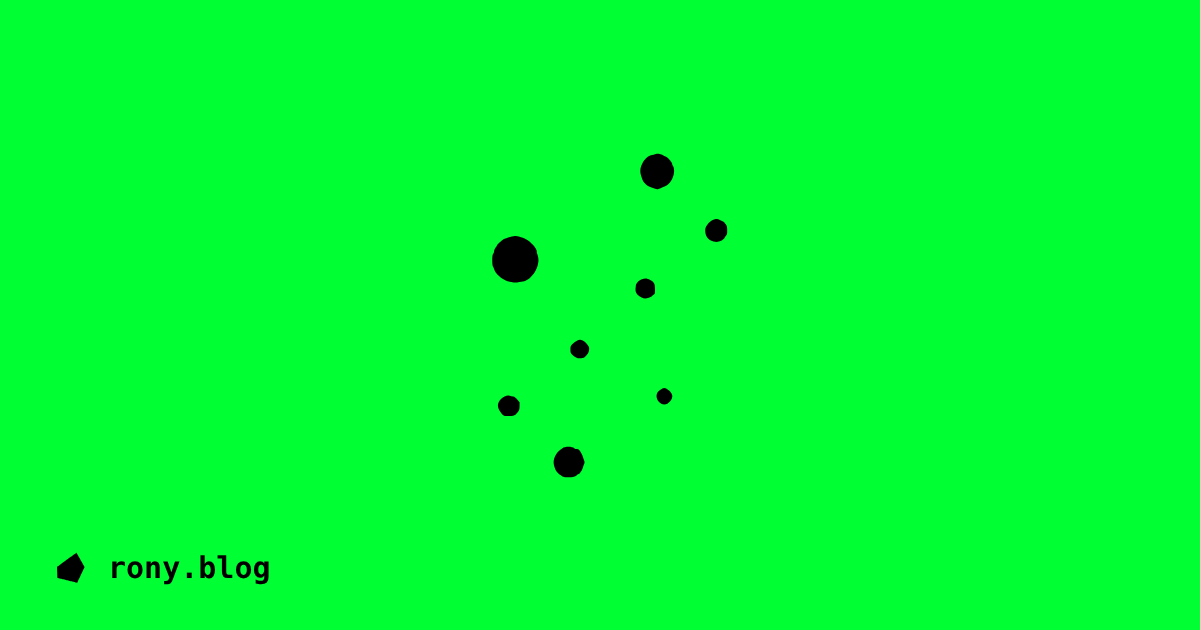
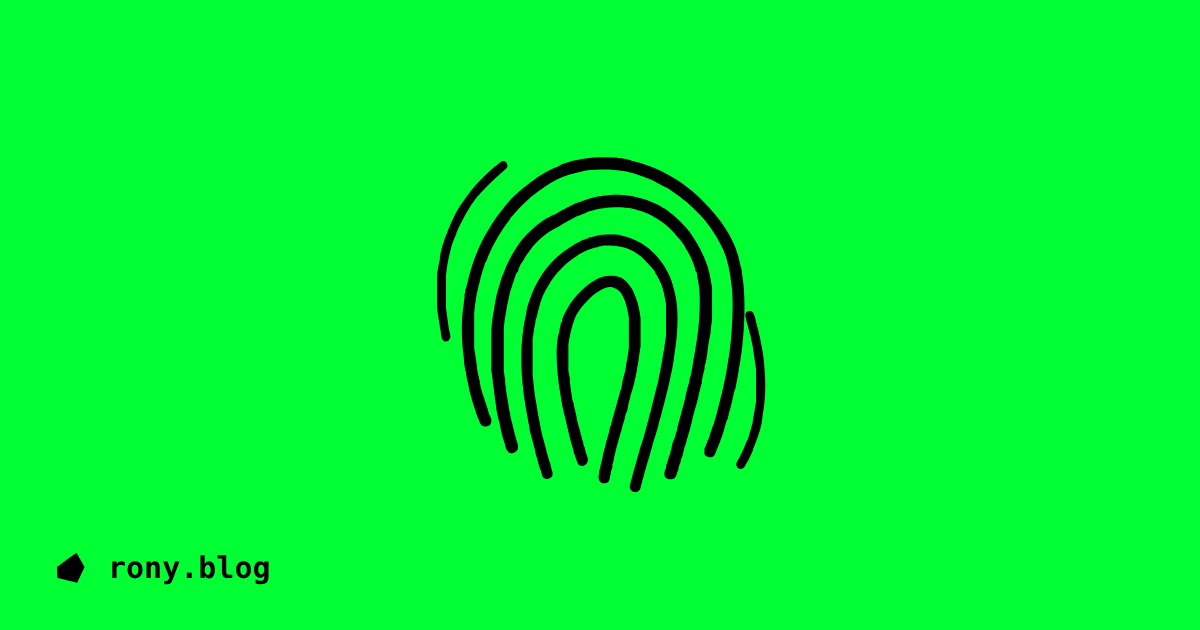
Give the poem a fingerprint
The fingerprint drawing, traced from the artwork, replaces the dots on the
poem in the feed, the social cuts and its share card. It joins the icon
library.

Claude-Session: https://claude.ai/code/session_01DvgCqh7jZkxuLgej98F7v5

Changed region(s): [[0.3392, 0.2413, 0.6475, 0.7841]]

diff --git a/index.html b/index.html
@@ -376,6 +376,7 @@ h2.year { font-size: 13px; font-weight: 700; letter-spacing: .3em; color: var(--
   <symbol id="i-quad" viewBox="0 0 64 64"><path fill="currentColor" fill-rule="evenodd" d="M43.9 50.0 C43.9 49.9 44.0 49.3 44.1 48.6 C44.1 47.9 44.2 47.0 44.3 46.7 C44.3 46.4 44.4 45.7 44.4 45.1 C44.4 44.5 44.5 43.9 44.6 43.8 C44.6 43.6 44.7 43.1 44.7 42.6 C44.7 42.2 44.9 41.0 45.0 40.0 C45.1 39.1 45.2 37.7 45.3 36.9 C45.4 36.1 45.5 35.3 45.5 35.0 C45.6 34.7 45.7 34.1 45.7 33.6 C45.7 33.1 45.8 32.5 45.9 32.2 C45.9 32.0 45.9 31.6 45.9 31.3 C45.9 31.0 46.0 30.5 46.0 30.2 C46.1 29.9 46.2 29.1 46.3 28.3 C46.3 27.6 46.4 26.8 46.5 26.5 C46.5 26.3 46.5 25.8 46.5 25.6 C46.5 25.3 46.6 24.6 46.7 23.9 C46.8 23.3 46.9 22.3 46.9 21.8 C46.9 21.2 47.0 20.6 47.0 20.5 C47.1 20.4 47.1 19.8 47.2 19.3 C47.2 18.8 47.3 18.1 47.3 17.7 C47.4 16.7 47.5 15.3 47.5 15.1 C47.4 15.0 47.3 14.9 47.1 15.0 C47.0 15.0 46.7 15.1 46.3 15.1 C46.0 15.1 45.3 15.2 44.8 15.3 C44.3 15.4 43.4 15.5 42.8 15.6 C42.2 15.7 41.4 15.8 41.0 15.9 C40.6 16.0 40.1 16.0 39.8 16.1 C39.5 16.1 38.9 16.2 38.6 16.3 C37.4 16.5 36.4 16.6 35.8 16.7 C35.5 16.7 35.1 16.8 34.9 16.8 C34.7 16.9 34.3 16.9 33.9 17.0 C33.6 17.0 33.0 17.1 32.6 17.2 C31.8 17.3 31.2 17.4 29.9 17.6 C29.3 17.7 28.7 17.8 28.4 17.8 C25.8 18.3 25.4 18.3 24.5 18.5 C24.2 18.5 23.7 18.6 23.3 18.7 C22.9 18.7 22.2 18.8 21.7 18.9 C21.3 18.9 20.7 19.0 20.4 19.1 C20.2 19.1 19.7 19.2 19.4 19.2 C19.0 19.3 18.8 19.3 18.7 19.4 C18.6 19.5 18.6 19.9 18.6 20.5 C18.6 21.0 18.6 21.6 18.5 21.9 C18.5 22.3 18.4 23.1 18.1 26.6 C18.0 28.8 17.9 29.6 17.8 30.5 C17.7 31.9 17.5 34.8 17.5 36.2 C17.4 36.9 17.4 37.7 17.3 38.0 C17.3 38.3 17.2 39.1 17.2 39.8 C17.2 40.5 17.1 41.7 17.0 42.4 C17.0 43.2 16.9 44.3 16.8 44.8 C16.8 45.3 16.8 45.9 16.7 46.2 C16.7 46.8 16.8 46.9 17.7 47.0 C18.1 47.0 18.7 47.1 18.9 47.1 C19.2 47.1 19.9 47.2 20.4 47.3 C20.9 47.3 21.6 47.4 22.0 47.5 C22.8 47.6 23.5 47.7 25.3 47.9 C25.9 48.0 26.7 48.1 27.1 48.1 C27.5 48.2 28.3 48.3 28.9 48.4 C31.7 48.7 32.5 48.8 33.0 48.9 C33.4 48.9 33.8 49.0 34.0 49.0 C34.1 49.0 34.7 49.1 35.2 49.2 C36.8 49.4 38.0 49.5 38.9 49.6 C39.3 49.7 40.0 49.8 40.3 49.8 C40.6 49.8 41.1 49.9 41.4 50.0 C41.7 50.0 42.2 50.1 42.6 50.1 C42.9 50.1 43.3 50.2 43.4 50.2 C43.6 50.3 43.8 50.2 43.9 50.0 Z"/></symbol>
   <symbol id="i-coffin" viewBox="0 0 64 64"><path fill="currentColor" stroke="currentColor" stroke-width="0.9" stroke-linejoin="round" d="M29.6 6.5 L39.5 6.8 L48.5 21.3 L37.3 58.3 L22.6 56.5 L17.6 18.5 Z"/></symbol>
   <symbol id="i-wand" viewBox="0 0 64 64"><path fill="currentColor" stroke="currentColor" stroke-width="0.8" stroke-linejoin="round" d="M6.9 53.0 L10.6 48.7 L15.7 52.9 L11.1 57.5 Z M12.4 47.3 L46.2 14.4 L49.1 18.4 L17.2 51.5 Z M47.8 12.9 L53.5 8.0 L56.6 10.5 L50.6 16.3 Z"/></symbol>
+  <symbol id="i-fingerprint" viewBox="0 0 64 64"><path fill="currentColor" fill-rule="evenodd" d="M37.6 57.6 C37.8 57.5 37.9 57.3 38.0 56.7 C38.4 55.3 38.4 55.2 38.8 53.8 C39.0 53.1 39.2 52.6 39.2 52.5 C39.2 52.4 39.3 52.2 39.3 52.1 C39.3 52.0 39.4 51.9 39.4 51.8 C39.4 51.7 39.5 51.5 39.5 51.5 C39.5 51.4 39.7 50.6 40.0 49.7 C40.3 48.8 40.5 48.1 40.5 48.0 C40.6 47.5 40.7 47.2 40.9 46.6 C40.9 46.4 41.0 46.2 41.0 46.1 C41.2 45.4 41.6 43.8 41.8 43.0 C41.9 42.8 41.9 42.4 42.0 42.2 C42.1 41.8 42.2 41.2 42.3 40.8 C42.3 40.6 42.4 40.4 42.4 40.3 C42.6 39.6 42.7 38.6 42.9 37.2 C43.4 34.2 43.4 30.6 42.9 28.9 C42.9 28.8 42.9 28.6 42.8 28.5 C42.6 27.5 42.2 26.4 41.7 25.5 C40.3 22.9 38.0 21.1 35.4 20.5 C34.6 20.3 34.5 20.3 33.4 20.3 C32.3 20.3 31.8 20.4 31.0 20.6 C30.9 20.6 30.7 20.7 30.7 20.7 C30.6 20.7 30.5 20.7 30.4 20.7 C30.4 20.8 30.2 20.8 30.2 20.9 C30.1 20.9 29.9 20.9 29.8 21.0 C29.7 21.0 29.6 21.1 29.5 21.1 C28.6 21.5 27.4 22.3 26.4 23.0 C24.2 24.8 22.7 27.0 21.7 30.0 C21.4 30.9 21.4 30.9 21.3 31.6 C20.5 35.0 20.3 38.8 20.9 43.4 C20.9 43.8 21.0 43.9 21.1 44.8 C21.2 45.6 21.4 46.4 21.6 47.7 C21.7 48.0 21.8 48.7 21.8 48.9 C22.1 49.9 22.5 51.5 22.6 51.8 C22.6 51.9 22.6 52.0 22.6 52.1 C22.7 52.2 22.7 52.4 22.7 52.5 C22.8 52.6 22.9 53.0 23.0 53.4 C23.1 53.8 23.2 54.2 23.2 54.2 C23.3 54.3 23.3 54.5 23.4 54.6 C23.6 55.5 23.7 55.7 24.1 55.8 C24.4 55.9 24.6 55.8 24.9 55.6 C25.1 55.4 25.1 55.3 25.1 55.1 C25.1 54.9 25.1 54.7 25.0 54.6 C25.0 54.4 24.9 54.3 24.9 54.2 C24.9 54.1 24.8 53.9 24.8 53.7 C24.6 53.2 24.3 52.1 24.1 51.3 C23.9 50.6 23.8 50.2 23.6 49.5 C23.4 48.6 23.4 48.5 23.3 48.1 C23.3 47.9 23.2 47.6 23.2 47.5 C23.2 47.3 23.1 47.1 23.1 47.0 C23.1 46.9 23.0 46.6 23.0 46.5 C23.0 46.3 22.9 46.1 22.9 45.9 C22.9 45.7 22.8 45.4 22.8 45.2 C22.5 43.7 22.4 42.7 22.2 40.7 C22.2 39.8 22.2 36.4 22.2 35.6 C22.4 34.2 22.4 33.9 22.6 33.2 C22.6 32.9 22.6 32.8 22.8 32.3 C23.0 31.3 23.3 30.2 23.6 29.4 C23.8 29.0 24.1 28.3 24.4 27.9 C25.4 26.0 27.0 24.4 29.1 23.1 C29.9 22.6 30.9 22.2 31.7 22.1 C31.9 22.0 32.1 22.0 32.2 22.0 C32.3 21.9 32.7 21.9 33.1 21.9 C35.1 21.8 37.1 22.5 38.6 24.1 C39.1 24.6 39.9 25.5 40.0 25.7 C40.0 25.8 40.1 26.0 40.2 26.1 C40.4 26.5 40.6 26.8 40.9 27.5 C41.2 28.2 41.4 29.3 41.6 30.4 C41.6 31.1 41.6 34.3 41.6 35.1 C41.4 36.2 41.4 36.8 41.2 37.6 C41.1 38.3 40.9 39.5 40.8 39.9 C40.8 40.2 40.7 40.5 40.6 40.8 C40.6 41.0 40.5 41.3 40.5 41.6 C40.4 41.8 40.4 42.1 40.3 42.2 C40.2 42.7 39.5 45.5 39.4 45.9 C39.4 46.0 39.3 46.3 39.2 46.5 C39.2 46.7 39.1 46.9 39.1 47.0 C39.1 47.1 39.0 47.3 39.0 47.4 C38.9 47.6 38.9 47.8 38.8 48.1 C38.8 48.2 38.6 48.9 38.4 49.6 C38.0 51.0 37.9 51.1 37.8 51.5 C37.8 51.6 37.7 51.8 37.7 51.9 C37.7 51.9 37.6 52.1 37.6 52.2 C37.6 52.3 37.4 52.8 37.3 53.3 C37.1 53.9 37.0 54.4 36.9 54.6 C36.9 54.7 36.8 54.9 36.8 55.0 C36.8 55.1 36.7 55.4 36.6 55.8 C36.5 56.1 36.4 56.5 36.4 56.6 C36.2 57.1 36.4 57.5 36.8 57.7 C37.0 57.8 37.4 57.8 37.6 57.6 Z M33.0 56.4 C33.3 56.3 33.4 56.0 33.5 55.3 C33.6 55.1 33.6 54.8 33.6 54.7 C33.7 54.6 33.7 54.3 33.8 54.2 C33.8 54.0 33.8 53.8 33.8 53.7 C33.9 53.6 33.9 53.4 34.0 53.2 C34.0 52.8 34.6 50.5 34.8 49.9 C34.8 49.8 34.9 49.6 34.9 49.4 C35.0 49.3 35.0 49.0 35.1 48.9 C35.2 48.4 35.3 48.0 35.4 47.7 C35.4 47.6 35.5 47.5 35.5 47.4 C35.5 47.3 35.6 47.1 35.6 47.1 C35.6 47.0 35.7 46.7 35.7 46.5 C35.8 46.3 35.9 46.0 36.0 45.8 C36.0 45.5 36.1 45.3 36.1 45.2 C36.1 45.1 36.2 44.8 36.4 43.9 C36.6 43.2 37.1 41.6 37.1 41.3 C37.1 41.2 37.2 41.0 37.2 40.9 C37.2 40.7 37.4 40.1 37.4 39.7 C37.6 39.0 37.7 37.7 37.9 36.6 C37.9 35.8 37.9 33.1 37.9 32.5 C37.7 30.9 37.5 30.2 37.1 29.2 C36.8 28.3 36.4 27.8 35.9 27.2 C35.2 26.5 34.5 26.3 33.5 26.3 C32.8 26.3 32.3 26.4 31.5 26.8 C30.1 27.5 28.3 29.3 27.5 30.6 C27.1 31.3 26.8 31.9 26.6 32.3 C26.6 32.4 26.6 32.5 26.5 32.6 C26.5 32.6 26.5 32.7 26.5 32.9 C26.4 33.0 26.4 33.1 26.3 33.2 C26.3 33.4 26.1 34.1 26.1 34.4 C26.0 34.6 26.0 34.8 25.9 35.0 C25.5 37.1 25.7 40.6 26.3 43.9 C26.4 44.6 26.6 45.7 26.7 45.9 C26.7 46.2 26.8 46.5 26.9 46.8 C27.0 47.3 27.6 49.7 27.7 50.2 C27.7 50.3 27.8 50.4 27.8 50.5 C27.8 50.6 27.9 50.8 27.9 50.9 C27.9 51.0 28.0 51.1 28.0 51.2 C28.0 51.3 28.1 51.5 28.1 51.6 C28.1 51.6 28.2 51.9 28.2 52.1 C28.3 52.3 28.4 52.5 28.4 52.6 C28.5 52.8 28.6 53.2 28.7 53.4 C28.9 54.2 30.0 54.1 30.2 53.3 C30.3 53.1 30.3 53.0 29.9 51.9 C29.9 51.7 29.8 51.5 29.8 51.4 C29.8 51.3 29.7 51.1 29.6 50.9 C29.6 50.6 29.5 50.3 29.4 50.1 C29.3 49.7 29.3 49.5 29.2 49.3 C29.2 49.2 28.8 47.8 28.7 47.5 C28.7 47.3 28.5 46.5 28.5 46.3 C28.4 46.2 28.4 46.0 28.4 45.9 C28.3 45.5 28.2 45.3 28.2 44.9 C28.1 44.8 28.1 44.5 28.0 44.4 C27.9 43.7 27.6 42.1 27.6 41.1 C27.5 40.8 27.5 40.4 27.4 40.1 C27.4 39.5 27.4 36.9 27.4 36.3 C27.7 34.4 28.0 33.3 28.5 32.1 C29.0 31.3 29.3 30.8 30.0 30.1 C31.5 28.5 33.0 27.7 33.9 28.0 C35.1 28.3 35.8 29.7 36.2 32.4 C36.2 33.0 36.2 36.1 36.2 36.8 C36.0 38.1 36.0 38.4 35.8 39.2 C35.7 40.2 35.7 40.0 35.3 41.5 C35.2 42.2 35.2 42.2 35.1 42.7 C35.0 42.9 34.9 43.3 34.8 43.6 C34.6 44.3 34.5 44.7 34.4 45.1 C34.3 45.3 34.3 45.6 34.2 45.7 C34.2 45.8 34.2 45.9 34.1 46.0 C34.1 46.1 34.1 46.2 34.1 46.3 C34.0 46.4 33.9 46.8 33.8 47.2 C33.7 47.6 33.6 48.1 33.5 48.2 C33.4 48.5 33.4 48.6 33.3 49.1 C33.0 50.1 32.9 50.6 32.8 50.9 C32.8 51.0 32.7 51.3 32.6 51.7 C32.5 52.0 32.4 52.4 32.4 52.5 C32.4 52.7 32.3 52.9 32.3 53.0 C32.2 53.3 32.0 54.4 31.9 54.7 C31.9 54.9 31.9 55.2 31.8 55.3 C31.8 55.4 31.8 55.6 31.8 55.7 C31.8 55.9 32.0 56.3 32.2 56.4 C32.4 56.5 32.8 56.5 33.0 56.4 Z M42.7 55.8 C43.0 55.6 43.1 55.4 43.2 55.0 C43.2 54.9 43.3 54.7 43.4 54.5 C43.4 54.3 43.5 54.1 43.5 54.0 C43.5 53.9 43.6 53.7 43.7 53.5 C43.7 53.3 43.8 53.1 43.8 53.0 C43.8 52.9 43.9 52.7 44.0 52.5 C44.1 52.1 44.1 52.0 44.2 51.7 C44.2 51.6 44.3 51.1 44.5 50.7 C44.6 50.3 44.7 49.8 44.8 49.6 C44.8 49.5 44.9 49.3 44.9 49.2 C45.0 49.0 45.1 48.5 45.3 47.8 C45.4 47.2 45.9 45.4 46.0 45.1 C46.0 45.0 46.1 44.8 46.1 44.8 C46.2 44.4 46.6 42.5 46.8 41.9 C46.8 41.7 46.8 41.6 46.8 41.4 C46.9 41.3 46.9 41.1 46.9 41.0 C47.0 40.9 47.0 40.7 47.0 40.7 C47.0 40.6 47.1 40.2 47.2 39.9 C47.2 39.5 47.3 39.1 47.4 38.9 C47.4 38.8 47.4 38.5 47.5 38.4 C47.5 38.2 47.6 37.8 47.7 36.7 C47.8 36.2 47.9 35.5 48.1 34.5 C48.1 34.1 48.2 33.5 48.3 32.5 C48.3 31.6 48.3 28.7 48.3 28.0 C48.1 26.9 48.0 26.2 47.7 25.1 C47.4 24.1 46.8 22.8 46.2 21.7 C45.9 21.2 45.1 20.0 45.0 19.8 C44.9 19.8 44.8 19.7 44.7 19.5 C43.8 18.4 42.3 17.1 41.4 16.5 C41.3 16.5 41.1 16.4 40.9 16.2 C39.9 15.7 38.6 15.1 37.5 14.9 C36.8 14.7 36.5 14.6 35.8 14.6 C35.3 14.5 33.4 14.5 33.0 14.6 C32.8 14.6 32.5 14.6 32.3 14.7 C31.3 14.8 29.9 15.2 29.0 15.6 C28.9 15.6 28.8 15.6 28.7 15.7 C28.7 15.7 28.5 15.7 28.5 15.7 C28.3 15.8 26.6 16.7 26.4 16.8 C25.9 17.1 25.8 17.2 25.3 17.4 C25.0 17.5 24.8 17.6 24.7 17.7 C24.6 17.8 24.4 17.8 24.3 17.9 C22.8 18.8 21.0 20.4 19.9 22.1 C19.1 23.3 18.4 24.7 17.9 26.1 C17.8 26.2 17.8 26.4 17.7 26.5 C17.7 26.6 17.4 27.6 17.3 27.9 C17.0 28.8 16.8 29.9 16.7 30.5 C16.7 30.6 16.6 30.9 16.6 31.2 C16.4 32.0 16.4 32.4 16.2 34.0 C16.2 34.8 16.2 39.2 16.2 40.2 C16.3 40.5 16.3 41.1 16.4 41.4 C16.4 41.7 16.4 42.1 16.5 42.3 C16.6 43.1 16.6 43.5 16.7 43.8 C16.7 44.0 16.7 44.3 16.8 44.5 C16.8 44.7 16.8 45.0 16.9 45.1 C16.9 45.2 16.9 45.5 16.9 45.6 C17.0 46.1 17.2 47.1 17.4 47.7 C17.4 47.9 17.5 48.2 17.5 48.3 C17.5 48.5 17.9 50.0 18.0 50.3 C18.1 50.6 18.2 50.8 18.2 51.0 C18.2 51.1 18.3 51.2 18.3 51.3 C18.5 52.2 19.5 52.4 20.0 51.6 C20.1 51.4 20.1 51.1 20.0 50.7 C20.0 50.6 19.9 50.5 19.9 50.4 C19.9 50.3 19.8 50.1 19.8 50.0 C19.6 49.3 19.2 47.6 19.0 46.9 C19.0 46.7 18.9 46.4 18.9 46.2 C18.9 46.1 18.8 45.9 18.8 45.8 C18.8 45.6 18.7 45.4 18.7 45.2 C18.6 44.6 18.5 43.8 18.4 43.4 C18.4 43.2 18.3 42.8 18.3 42.5 C18.2 42.1 18.2 41.6 18.2 41.3 C18.1 41.0 18.1 40.5 18.0 40.1 C18.0 39.3 18.0 34.9 18.0 34.0 C18.1 32.9 18.3 31.7 18.4 31.2 C18.4 31.0 18.5 30.8 18.5 30.6 C18.5 30.4 18.6 30.2 18.6 30.1 C18.6 30.0 18.7 29.8 18.7 29.7 C18.7 29.5 18.8 29.3 18.8 29.2 C18.8 29.2 18.9 28.9 18.9 28.7 C19.2 27.8 19.6 26.6 19.8 26.0 C19.9 25.9 20.0 25.7 20.1 25.6 C20.2 25.1 20.5 24.5 20.7 24.3 C20.8 24.1 20.9 24.0 20.9 24.0 C20.9 23.9 21.1 23.6 21.3 23.3 C22.6 21.3 24.1 20.0 26.2 19.0 C26.6 18.7 27.1 18.5 27.2 18.4 C27.5 18.2 27.6 18.2 28.3 17.8 C28.9 17.5 29.0 17.5 29.3 17.4 C29.4 17.3 29.5 17.3 29.6 17.3 C30.1 17.0 30.8 16.8 31.3 16.7 C32.0 16.5 32.3 16.5 33.0 16.4 C33.6 16.3 35.2 16.3 35.7 16.4 C36.7 16.5 36.7 16.5 37.3 16.7 C39.6 17.3 41.8 18.7 43.4 20.8 C43.8 21.2 44.3 21.9 44.3 22.0 C44.3 22.0 44.4 22.1 44.4 22.2 C45.0 23.0 45.7 24.6 45.9 25.6 C46.0 25.7 46.0 25.8 46.1 25.9 C46.1 26.0 46.1 26.2 46.2 26.7 C46.6 28.3 46.6 31.2 46.3 34.0 C46.2 34.7 46.1 35.7 46.0 36.2 C46.0 36.3 45.9 36.6 45.9 36.8 C45.8 37.2 45.8 37.6 45.7 38.0 C45.7 38.1 45.6 38.4 45.6 38.5 C45.5 39.3 45.3 40.3 45.2 40.8 C45.1 41.0 45.0 41.4 45.0 41.7 C44.7 42.6 44.6 43.1 44.3 44.5 C43.8 46.3 43.7 46.8 43.4 47.8 C43.4 47.9 43.3 48.1 43.3 48.2 C43.3 48.3 43.2 48.5 43.2 48.8 C43.1 49.0 43.0 49.3 43.0 49.5 C42.9 49.7 42.8 50.1 42.6 50.5 C42.5 50.9 42.4 51.3 42.4 51.4 C42.4 51.5 42.3 51.6 42.3 51.7 C42.3 51.8 42.2 52.0 42.2 52.2 C42.1 52.4 42.0 52.6 42.0 52.7 C42.0 52.8 41.9 53.0 41.9 53.1 C41.8 53.2 41.8 53.5 41.7 53.7 C41.6 53.9 41.6 54.1 41.6 54.2 C41.3 54.9 41.3 55.3 41.5 55.6 C41.8 55.9 42.3 56.0 42.7 55.8 Z M52.8 54.3 C53.0 54.2 53.0 54.1 53.6 53.1 C53.9 52.4 54.0 52.2 54.2 51.8 C54.2 51.7 54.3 51.5 54.3 51.4 C54.7 50.5 55.2 49.1 55.5 47.8 C55.6 47.2 55.6 47.1 55.7 46.3 C56.0 44.7 56.1 42.7 56.0 40.9 C55.9 39.0 55.8 37.9 55.4 36.0 C55.3 35.2 54.9 33.8 54.7 33.0 C54.6 32.6 54.6 32.5 54.5 32.2 C54.3 31.6 54.2 31.4 53.8 31.4 C53.5 31.4 53.3 31.5 53.2 31.7 C53.1 32.0 53.1 31.9 53.3 32.9 C53.5 33.4 53.8 34.8 53.9 35.0 C54.0 35.6 54.2 36.3 54.2 36.5 C54.4 37.8 54.5 38.5 54.7 39.8 C54.7 40.6 54.7 44.0 54.7 44.7 C54.5 45.6 54.5 46.0 54.4 46.4 C54.3 46.9 54.2 47.5 54.2 47.8 C54.1 47.8 54.1 48.1 54.0 48.4 C53.8 49.0 53.6 49.9 53.5 50.1 C53.4 50.2 53.3 50.4 53.2 50.7 C52.9 51.5 52.3 52.8 51.9 53.4 C51.6 54.0 52.3 54.7 52.8 54.3 Z M48.4 52.6 C48.7 52.4 48.7 52.3 48.9 51.8 C49.0 51.6 49.1 51.3 49.1 51.3 C49.4 50.7 50.0 49.0 50.2 48.1 C50.3 47.8 50.4 47.5 50.4 47.4 C50.5 47.3 50.5 47.2 50.6 47.1 C50.6 46.9 50.6 46.8 50.7 46.7 C50.7 46.6 50.7 46.5 50.7 46.4 C50.8 46.3 50.8 46.0 50.9 45.8 C51.0 45.5 51.4 43.8 51.5 43.2 C51.6 43.1 51.6 42.8 51.7 42.7 C51.8 42.2 52.1 40.7 52.2 39.9 C52.2 39.7 52.3 39.4 52.3 39.3 C52.5 38.2 52.7 36.7 52.8 35.5 C53.1 32.2 53.1 28.6 52.7 26.3 C52.6 25.4 52.6 25.3 52.4 24.7 C52.3 24.1 52.1 23.4 52.0 23.1 C51.8 22.6 51.8 22.3 51.7 22.3 C51.7 22.3 51.7 22.3 51.7 22.2 C51.7 22.1 51.0 20.6 50.5 19.8 C49.1 17.5 46.9 15.1 44.7 13.4 C42.7 11.9 40.5 10.7 38.2 10.0 C37.7 9.8 37.5 9.8 37.1 9.7 C37.0 9.6 36.8 9.6 36.7 9.6 C36.2 9.4 35.6 9.3 35.1 9.2 C34.9 9.2 34.6 9.2 34.4 9.1 C33.9 9.1 31.8 9.0 31.1 9.1 C30.2 9.2 29.5 9.3 28.9 9.4 C28.8 9.4 28.6 9.5 28.5 9.5 C27.8 9.6 26.7 10.0 26.2 10.2 C26.1 10.3 25.9 10.3 25.9 10.4 C24.7 10.8 23.1 11.8 21.9 12.7 C21.7 12.9 21.4 13.1 21.3 13.2 C20.8 13.5 19.7 14.5 19.1 15.1 C17.9 16.5 17.0 17.6 15.9 19.4 C14.5 21.5 13.3 24.6 12.7 27.4 C12.6 27.6 12.6 27.8 12.6 27.9 C12.5 28.0 12.5 28.2 12.4 28.4 C12.4 28.6 12.4 28.8 12.3 29.0 C12.3 29.1 12.3 29.4 12.3 29.6 C12.2 29.8 12.2 30.1 12.2 30.3 C11.8 32.6 11.8 35.5 12.2 38.3 C12.2 39.0 12.4 40.0 12.5 40.3 C12.5 40.4 12.5 40.7 12.6 40.9 C12.6 41.0 12.6 41.3 12.7 41.4 C12.7 41.5 12.7 41.7 12.8 41.8 C12.8 42.1 13.1 43.3 13.2 43.7 C13.4 44.5 14.0 46.3 14.2 46.9 C14.4 47.3 14.5 47.5 14.5 47.6 C14.5 47.6 14.6 47.7 14.6 47.8 C14.8 48.1 15.0 48.2 15.3 48.2 C15.9 48.2 16.2 47.9 16.2 47.4 C16.2 47.1 16.2 47.0 15.9 46.5 C15.8 46.1 15.4 44.8 15.3 44.6 C15.3 44.5 15.2 44.4 15.2 44.2 C15.0 43.7 15.0 43.7 14.7 42.7 C14.6 42.3 14.6 42.2 14.5 41.9 C14.5 41.8 14.5 41.6 14.5 41.5 C14.4 41.4 14.4 41.2 14.4 41.0 C14.3 40.8 14.1 39.9 14.1 39.4 C14.0 38.8 13.9 38.0 13.7 36.8 C13.7 36.0 13.7 32.5 13.7 31.7 C13.9 29.8 14.1 28.6 14.5 27.2 C14.7 26.2 15.2 24.8 15.3 24.4 C15.4 24.3 15.5 24.1 15.6 23.8 C16.3 22.0 17.6 19.7 18.8 18.2 C19.0 17.9 19.1 17.7 19.1 17.7 C19.2 17.7 19.3 17.5 19.5 17.3 C20.2 16.5 21.2 15.5 22.0 14.8 C24.8 12.6 26.5 11.7 29.5 11.1 C29.7 11.0 30.2 10.9 30.8 10.9 C31.3 10.8 33.5 10.8 34.0 10.9 C35.3 11.0 35.9 11.1 37.0 11.4 C37.5 11.6 38.5 11.9 38.9 12.1 C39.1 12.2 39.2 12.2 39.2 12.2 C39.3 12.2 41.0 13.1 41.7 13.5 C41.9 13.6 42.2 13.8 42.2 13.8 C42.6 14.0 43.9 15.0 44.5 15.5 C45.0 15.9 46.3 17.2 46.8 17.7 C48.0 19.0 49.4 21.2 50.0 22.7 C50.2 23.2 50.5 24.0 50.6 24.6 C50.7 24.8 50.7 24.9 50.8 25.5 C50.9 25.8 51.0 26.6 51.1 27.5 C51.4 29.3 51.3 32.4 51.1 35.0 C51.0 36.2 50.8 37.9 50.6 38.9 C50.6 39.1 50.5 39.4 50.5 39.5 C50.4 40.4 50.1 41.7 49.9 42.6 C49.9 42.7 49.8 42.9 49.8 43.0 C49.8 43.2 49.6 43.7 49.5 44.3 C49.1 45.8 49.0 46.3 48.8 47.0 C48.7 47.2 48.6 47.5 48.6 47.7 C48.4 48.1 47.9 49.6 47.9 49.8 C47.8 49.8 47.8 50.0 47.8 50.1 C47.7 50.1 47.7 50.3 47.6 50.3 C47.6 50.4 47.6 50.6 47.5 50.7 C47.4 51.1 47.3 51.2 47.2 51.4 C47.2 51.6 47.2 52.1 47.2 52.3 C47.5 52.7 48.0 52.8 48.4 52.6 Z M10.0 35.7 C10.0 35.7 10.1 35.6 10.1 35.5 C10.3 35.3 10.3 35.3 10.1 34.4 C9.9 33.4 9.8 32.3 9.6 31.0 C9.6 30.2 9.6 27.0 9.6 26.3 C9.8 24.4 10.0 23.6 10.4 22.0 C10.5 21.6 10.9 20.6 11.1 20.2 C11.1 20.1 11.1 20.0 11.2 19.9 C11.6 18.9 12.4 17.4 13.1 16.3 C13.3 15.9 14.1 14.9 14.2 14.7 C14.2 14.7 14.4 14.6 14.5 14.4 C15.4 13.4 16.7 12.1 18.0 11.0 C18.2 10.8 18.5 10.6 18.5 10.5 C18.7 9.9 18.1 9.4 17.6 9.7 C16.2 10.7 14.1 12.7 12.8 14.5 C12.5 14.9 11.5 16.3 11.5 16.4 C11.5 16.4 11.5 16.5 11.4 16.5 C11.0 17.1 10.0 19.3 9.7 20.2 C9.6 20.4 9.5 20.6 9.5 20.7 C9.4 20.8 9.4 21.1 9.3 21.3 C9.2 21.5 9.2 21.7 9.1 21.8 C9.1 21.9 8.9 22.6 8.8 23.0 C8.7 23.6 8.7 23.7 8.7 24.0 C8.5 24.8 8.4 25.3 8.3 26.4 C8.3 27.1 8.3 30.0 8.3 30.9 C8.4 31.8 8.6 33.0 8.7 33.5 C8.7 33.7 8.7 33.9 8.8 34.1 C8.9 35.2 9.0 35.5 9.2 35.7 C9.4 35.9 9.7 35.9 10.0 35.7 Z"/></symbol>
   <symbol id="i-about" viewBox="0 0 64 64"><path fill="currentColor" fill-rule="evenodd" d="M20.66 51.21 C20.83 51.16 21.33 51.10 21.77 51.08 C22.50 51.03 22.99 50.96 24.17 50.70 C24.37 50.65 24.75 50.58 25.01 50.53 C25.27 50.49 25.76 50.36 26.09 50.26 C26.43 50.16 26.93 50.02 27.21 49.95 C28.07 49.74 28.52 49.59 29.64 49.15 C29.84 49.07 30.13 48.96 30.28 48.91 C30.43 48.86 30.64 48.78 30.75 48.72 C31.10 48.55 31.57 48.34 31.62 48.34 C31.69 48.34 33.94 47.22 34.33 46.99 C34.51 46.88 34.73 46.76 34.80 46.72 C34.88 46.69 35.15 46.52 35.41 46.35 C35.67 46.18 35.98 46.00 36.09 45.94 C36.20 45.89 36.34 45.80 36.38 45.74 C36.43 45.68 36.50 45.64 36.53 45.64 C36.56 45.64 36.76 45.52 36.98 45.37 C37.19 45.23 37.55 44.99 37.77 44.85 C38.20 44.57 39.04 43.99 39.22 43.84 C42.88 40.95 44.03 39.95 45.27 38.59 C45.48 38.36 45.90 37.92 46.20 37.60 C47.46 36.29 49.40 33.93 49.42 33.70 C49.42 33.68 49.53 33.52 49.66 33.35 C49.98 32.91 51.00 31.39 51.09 31.19 C51.14 31.10 51.25 30.90 51.34 30.75 C51.43 30.60 51.53 30.42 51.57 30.34 C51.73 30.00 51.98 29.50 52.16 29.16 C52.28 28.96 52.45 28.58 52.55 28.32 C52.65 28.06 52.76 27.79 52.79 27.71 C53.52 26.10 54.07 23.73 54.07 22.16 C54.08 21.03 53.84 19.50 53.51 18.61 C53.42 18.36 53.19 17.88 53.00 17.55 C52.81 17.22 52.66 16.88 52.66 16.79 C52.66 16.70 52.71 16.47 52.77 16.27 C52.88 15.88 52.87 15.17 52.73 14.57 C52.53 13.67 51.78 12.84 50.70 12.31 C50.20 12.07 49.71 11.88 49.55 11.88 C49.47 11.88 49.27 11.82 49.09 11.74 C48.79 11.60 48.71 11.59 47.56 11.63 C46.73 11.66 46.23 11.71 45.98 11.78 C45.77 11.85 45.39 11.92 45.13 11.95 C44.52 12.02 43.29 12.25 43.05 12.35 C42.95 12.39 42.79 12.42 42.71 12.42 C42.56 12.42 41.85 12.61 41.42 12.77 C41.20 12.85 40.54 13.05 40.00 13.20 C39.81 13.26 39.57 13.35 39.45 13.40 C39.33 13.46 39.20 13.50 39.16 13.50 C39.11 13.50 38.98 13.55 38.86 13.60 C38.75 13.65 38.53 13.74 38.38 13.80 C38.23 13.85 37.95 13.96 37.76 14.04 C37.56 14.11 37.24 14.24 37.05 14.32 C36.85 14.40 36.58 14.50 36.44 14.55 C36.30 14.61 35.99 14.74 35.73 14.86 C35.48 14.97 35.14 15.13 34.97 15.20 C34.80 15.28 34.27 15.53 33.79 15.76 C33.31 15.99 32.75 16.25 32.56 16.34 C32.13 16.53 31.88 16.77 31.66 17.23 C31.50 17.58 31.22 17.83 30.75 18.07 C30.64 18.12 30.44 18.24 30.30 18.32 C29.56 18.76 29.20 18.96 28.57 19.29 C28.19 19.48 27.85 19.65 27.81 19.65 C27.76 19.65 27.61 19.54 27.47 19.41 C27.32 19.28 27.14 19.17 27.07 19.17 C26.64 19.17 26.20 19.69 26.19 20.18 C26.19 20.35 26.15 20.54 26.11 20.59 C26.01 20.71 25.55 21.06 25.49 21.06 C25.42 21.06 24.39 21.76 23.46 22.44 C22.89 22.85 22.91 22.84 22.65 23.04 C22.54 23.13 22.36 23.25 22.26 23.31 C22.06 23.44 20.64 24.57 19.75 25.32 C18.63 26.25 15.51 29.44 14.83 30.35 C14.47 30.82 14.05 31.36 13.91 31.53 C13.85 31.59 13.68 31.83 13.52 32.04 C13.36 32.26 13.06 32.66 12.87 32.92 C12.67 33.18 12.42 33.54 12.31 33.71 C12.21 33.89 11.95 34.28 11.75 34.58 C11.55 34.89 11.11 35.69 10.76 36.37 C10.41 37.05 10.10 37.65 10.07 37.72 C10.03 37.79 9.94 38.01 9.86 38.21 C9.78 38.42 9.65 38.69 9.58 38.83 C9.51 38.97 9.45 39.13 9.45 39.19 C9.45 39.25 9.39 39.44 9.32 39.62 C9.04 40.30 8.69 41.57 8.63 42.09 C8.60 42.39 8.54 42.72 8.51 42.83 C8.40 43.14 8.42 44.68 8.54 45.00 C8.59 45.14 8.64 45.40 8.64 45.56 C8.64 45.72 8.70 46.01 8.78 46.20 C9.23 47.30 9.33 47.47 9.95 48.16 C10.32 48.58 11.25 49.37 11.91 49.82 C12.05 49.92 12.36 50.15 12.61 50.33 C13.36 50.90 13.54 50.98 14.00 50.97 C14.88 50.96 17.12 51.11 17.42 51.20 C17.84 51.34 20.23 51.34 20.66 51.21 Z M16.84 49.89 C16.51 49.86 16.11 49.80 15.97 49.76 C15.82 49.72 15.56 49.69 15.39 49.69 C15.06 49.69 14.28 49.49 13.74 49.27 C13.20 49.05 12.80 48.87 12.69 48.81 C12.64 48.77 12.48 48.69 12.35 48.61 C11.74 48.27 10.53 47.03 10.53 46.73 C10.53 46.68 10.47 46.53 10.40 46.39 C9.89 45.40 9.81 43.38 10.22 41.53 C10.36 40.91 10.62 40.13 10.86 39.56 C10.97 39.32 11.14 38.92 11.24 38.68 C11.34 38.44 11.47 38.20 11.52 38.14 C11.57 38.08 11.61 37.99 11.61 37.93 C11.61 37.82 11.71 37.64 12.49 36.22 C12.59 36.03 12.83 35.65 13.02 35.38 C13.43 34.79 13.71 34.38 13.80 34.22 C14.08 33.77 15.31 32.20 15.77 31.69 C16.18 31.24 16.87 30.46 17.25 30.01 C18.00 29.12 18.99 28.11 19.95 27.26 C20.32 26.92 20.99 26.33 21.43 25.93 C22.68 24.81 23.98 23.79 24.92 23.19 C24.98 23.15 25.45 22.84 25.96 22.50 C26.48 22.15 26.95 21.87 27.01 21.87 C27.08 21.87 27.24 22.04 27.39 22.26 L27.65 22.65 L28.10 22.67 C28.35 22.68 28.61 22.66 28.69 22.62 C28.88 22.52 28.96 22.14 28.96 21.42 C28.96 20.67 29.02 20.59 29.88 20.00 C31.15 19.14 31.50 19.00 32.01 19.20 C32.25 19.30 32.43 19.31 33.18 19.27 C34.23 19.21 34.50 19.13 34.50 18.85 C34.50 18.73 34.43 18.59 34.31 18.48 C34.14 18.31 34.07 18.30 33.63 18.30 C32.94 18.30 32.98 18.09 33.76 17.69 C34.00 17.57 34.35 17.39 34.53 17.28 C34.72 17.18 35.04 17.02 35.24 16.92 C35.44 16.82 35.72 16.68 35.86 16.60 C36.00 16.53 36.16 16.47 36.22 16.47 C36.28 16.47 36.41 16.43 36.51 16.37 C36.61 16.32 36.82 16.23 36.98 16.17 C37.69 15.92 37.85 15.86 37.97 15.80 C38.05 15.76 38.24 15.69 38.40 15.63 C39.11 15.38 39.27 15.31 39.47 15.22 C39.59 15.17 39.72 15.12 39.76 15.12 C39.80 15.12 39.96 15.07 40.12 15.00 C40.51 14.82 40.80 14.72 41.33 14.57 C41.58 14.50 41.99 14.39 42.24 14.32 C42.50 14.25 42.84 14.15 43.00 14.11 C43.17 14.07 43.53 13.97 43.80 13.90 C44.06 13.83 44.36 13.77 44.45 13.77 C44.55 13.77 44.74 13.73 44.88 13.68 C45.51 13.43 48.08 13.30 48.93 13.46 C49.89 13.64 50.85 14.24 51.11 14.82 C51.25 15.12 51.28 15.63 51.17 15.91 C51.13 16.02 51.07 16.31 51.04 16.57 C51.01 16.83 50.95 17.21 50.90 17.42 C50.84 17.70 50.83 17.98 50.88 18.53 C50.93 19.21 50.95 19.28 51.08 19.29 C51.19 19.31 51.28 19.23 51.45 18.96 C51.84 18.34 51.91 18.34 52.15 19.05 C52.40 19.80 52.48 20.47 52.48 21.81 C52.47 23.03 52.40 23.82 52.24 24.34 C52.18 24.52 52.10 24.81 52.05 24.98 C51.84 25.77 51.76 26.04 51.67 26.16 C51.62 26.23 51.58 26.35 51.58 26.42 C51.58 26.49 51.54 26.63 51.48 26.72 C51.43 26.82 51.31 27.09 51.21 27.31 C50.91 27.97 50.17 29.45 49.99 29.74 C49.90 29.89 49.78 30.10 49.72 30.21 C49.66 30.32 49.53 30.55 49.42 30.72 C49.31 30.88 49.19 31.08 49.16 31.16 C49.12 31.23 49.05 31.34 48.99 31.39 C48.93 31.44 48.88 31.50 48.88 31.53 C48.88 31.56 48.79 31.72 48.67 31.88 C48.56 32.04 48.42 32.24 48.35 32.34 C48.07 32.76 47.12 34.01 46.94 34.19 C46.83 34.31 46.55 34.64 46.31 34.94 C45.84 35.54 45.65 35.74 44.62 36.82 C44.03 37.45 43.18 38.28 42.40 39.02 C42.22 39.19 41.81 39.53 41.38 39.87 C41.25 39.98 40.95 40.25 40.70 40.48 C40.45 40.71 40.10 40.99 39.92 41.12 C39.74 41.24 39.30 41.58 38.94 41.87 C38.59 42.16 37.92 42.64 37.46 42.95 C37.00 43.26 36.51 43.60 36.36 43.71 C36.06 43.94 35.99 43.99 34.79 44.69 C34.32 44.97 33.84 45.26 33.72 45.33 C33.28 45.60 32.27 46.18 32.24 46.18 C32.22 46.18 32.03 46.30 31.82 46.45 C31.60 46.60 31.40 46.72 31.37 46.72 C31.34 46.72 31.12 46.81 30.88 46.92 C30.64 47.03 30.25 47.21 30.01 47.32 C29.77 47.44 29.55 47.53 29.52 47.53 C29.49 47.53 29.39 47.57 29.29 47.62 C29.19 47.67 29.00 47.75 28.86 47.80 C28.72 47.84 28.53 47.92 28.43 47.97 C28.33 48.02 28.21 48.07 28.16 48.07 C28.11 48.07 27.99 48.11 27.89 48.17 C27.70 48.28 27.50 48.35 26.57 48.66 C24.94 49.21 23.14 49.61 21.33 49.83 C20.56 49.92 17.69 49.96 16.84 49.89 Z M29.87 41.48 C30.10 41.43 30.38 41.37 30.51 41.35 C30.64 41.32 30.86 41.24 30.99 41.18 C31.12 41.11 31.42 40.96 31.66 40.84 C32.71 40.34 33.56 39.62 34.13 38.75 C34.53 38.14 35.11 36.81 35.11 36.51 C35.11 36.38 35.15 36.14 35.21 35.98 C35.33 35.64 35.34 34.57 35.23 34.23 C35.19 34.10 35.13 33.82 35.10 33.62 C34.98 32.70 34.35 31.44 33.59 30.58 C33.16 30.10 32.17 29.36 31.53 29.05 C30.75 28.67 29.69 28.42 28.73 28.37 C28.19 28.34 27.32 28.49 26.60 28.73 C26.43 28.79 26.20 28.86 26.09 28.89 C25.98 28.92 25.75 29.03 25.59 29.12 C25.42 29.22 25.19 29.35 25.08 29.41 C24.84 29.54 24.01 30.19 23.76 30.44 C23.59 30.62 23.06 31.30 22.91 31.56 C22.54 32.16 22.14 33.14 22.14 33.43 C22.14 33.55 22.09 33.78 22.04 33.92 C21.90 34.30 21.91 35.75 22.05 36.25 C22.35 37.35 22.71 38.17 23.11 38.69 C23.82 39.63 24.69 40.42 25.45 40.81 C26.92 41.56 28.48 41.80 29.87 41.48 Z"/></symbol>
 </svg>
 
@@ -448,6 +449,7 @@ h2.year { font-size: 13px; font-weight: 700; letter-spacing: .3em; color: var(--
       <figure><span class="gtile big"><svg class="ic"><use href="library.svg#i-blocks"/></svg></span><figcaption>blocks</figcaption></figure>
       <figure><span class="gtile big"><svg class="ic"><use href="library.svg#i-coffin"/></svg></span><figcaption>coffin</figcaption></figure>
       <figure><span class="gtile big"><svg class="ic"><use href="library.svg#i-wand"/></svg></span><figcaption>wand</figcaption></figure>
+      <figure><span class="gtile big"><svg class="ic"><use href="library.svg#i-fingerprint"/></svg></span><figcaption>fingerprint</figcaption></figure>
     </div>
     <p><strong>One post, many cuts.</strong> A post is written once as a list of parts: text, image or clip. The page shows it two ways: read, as an essay with the clips set into it, and swipe, panel by panel for a phone.</p>
     <p><strong>Two languages, one stream.</strong> Every piece appears in the language it was written in. A switch shows the other language, translated automatically, and the translated page always says so and links back to the original.</p>
@@ -579,7 +581,7 @@ h2.year { font-size: 13px; font-weight: 700; letter-spacing: .3em; color: var(--
       ]
     },
     {
-      id: 'glitters', glyph: 'dots', lang: 'en', kind: 'poem', numbered: false,
+      id: 'glitters', glyph: 'fingerprint', lang: 'en', kind: 'poem', numbered: false,
       date: '2023-11-24',
       title: 'not everything that glitters has healed',
       tags: '#poetry',
